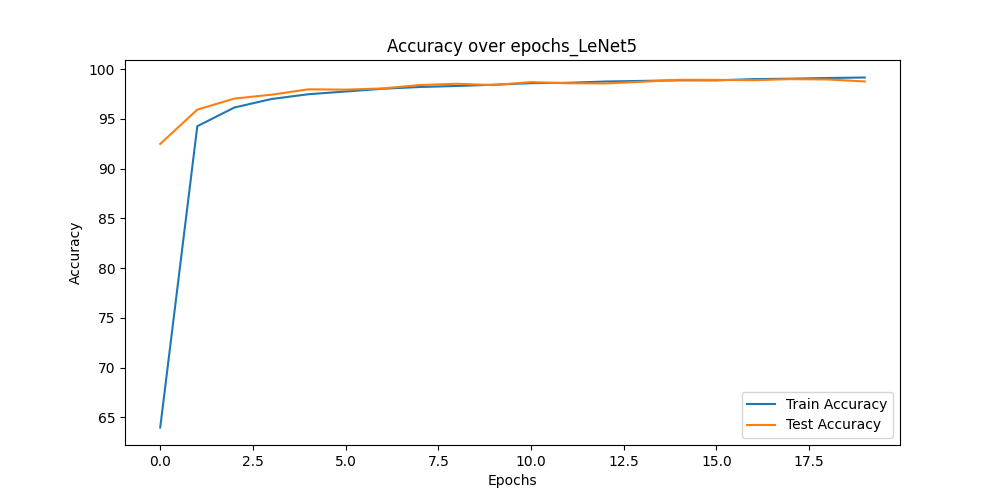
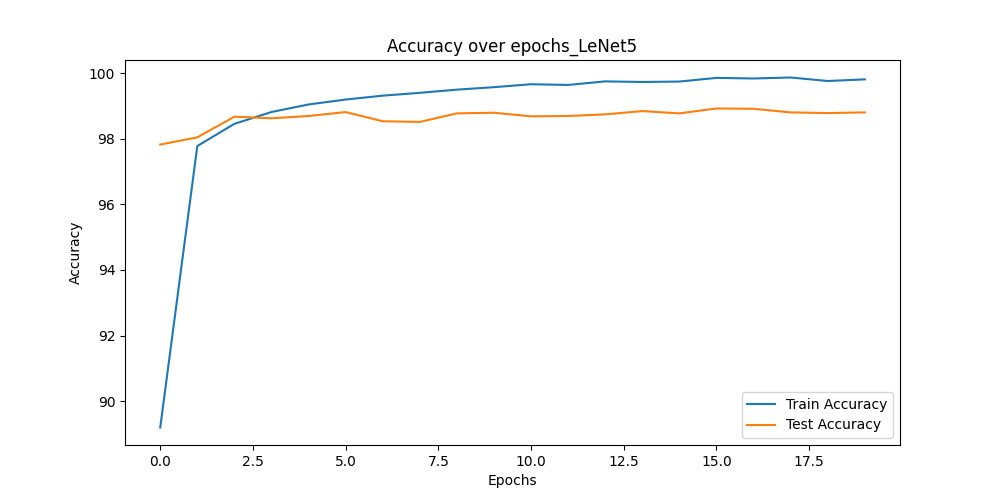
tenth commit

diff --git a/model.py b/model.py
@@ -6,7 +6,7 @@ from torchsummary import summary
 class LeNet5(nn.Module):
     """ LeNet-5 (LeCun et al., 1998), the CNN architectures
 
-        - a total of seven layers : Convolutional layers(2), Max pooling(2), Fully connected layers(3)
+        - a total of seven layers : Convolutional layers(3), Max pooling(3), Fully connected layers(2)
         - total params: 44,426
          
     """
@@ -15,51 +15,51 @@ class LeNet5(nn.Module):
         self.conv1 = nn.Conv2d(1, 6, kernel_size=5, stride=1, padding=0)
         self.pool = nn.MaxPool2d(kernel_size=2, stride=2)
         self.conv2 = nn.Conv2d(6, 16, kernel_size=5, stride=1, padding=0)
-        self.fc1 = nn.Linear(16*4*4, 120)
-        self.fc2 = nn.Linear(120, 84)
-        self.fc3 = nn.Linear(84, 10) # output =  num_class
+        self.conv3 = nn.Conv2d(16, 120, kernel_size=4, stride=1, padding=0)      
+        self.fc1 = nn.Linear(120, 84)
+        self.fc2 = nn.Linear(84, 10) # output =  num_class
 
     def forward(self, img):
         img = F.relu(self.conv1(img))
         img = self.pool(img)
         img = F.relu(self.conv2(img))
         img = self.pool(img)
-        img = img.view(-1, 16*4*4)
+        img = F.relu(self.conv3(img))
+        img = img.view(-1, 120)
         img = F.relu(self.fc1(img))
-        img = F.relu(self.fc2(img))
-        output = self.fc3(img)
+        output = self.fc2(img)
 
         return output
     
 class LeNet5_regularization(nn.Module):
     """ LeNet-5 (LeCun et al., 1998), the CNN architectures
 
-        - a total of seven layers : Convolutional layers(2), Max pooling(2), Fully connected layers(3)
+        - a total of seven layers : Convolutional layers(3), Max pooling(3), Fully connected layers(2)
         - total params: 44,426
          
     """
     def __init__(self):
         super(LeNet5_regularization, self).__init__()
         self.conv1 = nn.Conv2d(1, 6, kernel_size=5, stride=1, padding=0)
-        self.bn1 = nn.BatchNorm2d(6)   # Batch Normalization
+        self.bn1 = nn.BatchNorm2d(6)      # Batch Normalization
         self.pool = nn.MaxPool2d(kernel_size=2, stride=2)
         self.conv2 = nn.Conv2d(6, 16, kernel_size=5, stride=1, padding=0)
-        self.bn2 = nn.BatchNorm2d(16)  # Batch Normalization
-        self.fc1 = nn.Linear(16*4*4, 120)
-        self.dropout1 = nn.Dropout(0.5)  # Dropout
-        self.fc2 = nn.Linear(120, 84)
-        self.dropout2 = nn.Dropout(0.5)  # Dropout
-        self.fc3 = nn.Linear(84, 10) # output =  num_class
-
+        self.bn2 = nn.BatchNorm2d(16)     # Batch Normalization
+        self.conv3 = nn.Conv2d(16, 120, kernel_size=4, stride=1, padding=0)   
+        self.bn3 = nn.BatchNorm2d(120)   
+        self.fc1 = nn.Linear(120, 84)
+        self.dropout1 = nn.Dropout(p=0.5)  # Dropout
+        self.fc2 = nn.Linear(84, 10) # output = num_class
+        
     def forward(self, img):
         img = F.relu(self.conv1(img))
         img = self.pool(img)
         img = F.relu(self.conv2(img))
         img = self.pool(img)
-        img = img.view(-1, 16*4*4)
+        img = F.relu(self.conv3(img))
+        img = img.view(-1, 120)
         img = F.relu(self.fc1(img))
-        img = F.relu(self.fc2(img))
-        output = self.fc3(img)
+        output = self.fc2(img)
 
         return output
 

diff --git a/main.py b/main.py
@@ -106,7 +106,7 @@ def main(model_type='LeNet5', epochs=20, lr=0.001, batch_size=64):
         raise ValueError("Unsupported model type")
 
     # 4)
-    optimizer = optim.SGD(model.parameters(), lr=lr, momentum=0.9)
+    optimizer = optim.SGD(model.parameters(), lr=0.01, momentum=0.9)
 
     # 5)
     criterion = nn.CrossEntropyLoss()
@@ -172,10 +172,9 @@ if __name__ == '__main__':
     # args
     model_type = 'LeNet5'  # 'LeNet5' or 'CustomMLP' or 'LeNet5_regularization'
     epochs = 20
-    lr = 0.001
     batch_size = 64
 
-    train_losses, train_accuracies, test_losses, test_accuracies = main(model_type, epochs, lr, batch_size)
+    train_losses, train_accuracies, test_losses, test_accuracies = main(model_type, epochs, batch_size)
     
     if model_type == 'LeNet5':
         model = LeNet5()

diff --git a/README.md b/README.md
@@ -56,7 +56,6 @@
     #### args
     model_type = 'LeNet5'  
     epochs = 20  
-    lr = 0.001  
     batch_size = 64  
 
 ## 4. Model Structure
@@ -74,7 +73,7 @@
 | MaxPool2d-2    | [-1, 6, 12, 12]   | 0       |
 | Conv2d-3       | [-1, 16, 8, 8]    | 2,416   |
 | MaxPool2d-4    | [-1, 16, 4, 4]    | 0       |
-| Linear-5       | [-1, 120]         | 30,840  |
+| Conv2d-5       | [-1, 120, 1, 1]   | 30,840  |
 | Linear-6       | [-1, 84]          | 10,164  |
 | Linear-7       | [-1, 10]          | 850     |
 | **Total**      |                   | **44,426** |
@@ -96,10 +95,10 @@
      total parms : (5 * 5 * 1 * 6) + 6 = 156
 2. Conv2d-2(conv2)
      input channel : 6, output channel : 16, kernal_size : 5 * 5, bias : 16  
-     total parms : (5 * 5 * 6 * 16) + 16 = 2,146
-3. Linear-1(fc1)
-     input channel : 256, output channel : 120, bias : 120  
-     total parms : (256 * 120) + 120 = 30,840
+     total parms : (5 * 5 * 6 * 16) + 16 = 2,416
+3. Conv2d-2(conv3)
+     input channel : 16, output channel : 120, kernal_size : 4 * 4, bias : 120  
+     total parms : (4 * 4 * 16 * 120) + 120 = 30,840
 4. Linear-2(fc2)
      input channel : 120, output channel : 84, bias : 84  
      total parms : (120 * 84) + 84 = 10,164
@@ -107,7 +106,7 @@
      input channel : 84, output channel : 10, bias : 10  
      total parms : (84 * 10) + 10 = 850
 
-     Total parameters of LeNet-5 = 156 + 2,146 + 30,840 + 10,164 + 850 = 44,426
+     Total parameters of LeNet-5 = 156 + 2,416 + 30,840 + 10,164 + 850 = 44,426
 
 - **CustomMLP**
 1. Linear-1(fc1)
@@ -126,23 +125,23 @@
 
 - Accuracy for each model
   - CustomMLP
-  ![acc_plot_CustomMLP](https://github.com/bae-sohee/MNIST_Classification/assets/123538321/32dcd452-a016-483e-a58f-7dfa5b0b4568)
+  ![acc_plot_CustomMLP](https://github.com/bae-sohee/MNIST_Classification/assets/123538321/70600fa9-4b39-44fb-a30f-6b00f621f1cf)
   - LeNet-5
-  ![acc_plot_LeNet-5](https://github.com/bae-sohee/MNIST_Classification/assets/123538321/9bc7ffea-b539-4f58-a583-3913fce87357)
+  ![acc_plot_LeNet-5](https://github.com/bae-sohee/MNIST_Classification/assets/123538321/329c37ca-5a73-4612-be2d-38db9d2ec3cd)
   - LeNet-5 (regularization)
-  ![acc_plot_LeNet-5_regularization](https://github.com/bae-sohee/MNIST_Classification/assets/123538321/1a91a124-a4ce-4c88-ad47-a226fe5f4d44)
+  ![acc_plot_LeNet-5_regularization](https://github.com/bae-sohee/MNIST_Classification/assets/123538321/7bd85219-d64d-40de-a451-774aa7407107)
 
 - Loss for each model
   - CustomMLP
-  ![loss_plot_CustomMLP](https://github.com/bae-sohee/MNIST_Classification/assets/123538321/35787296-2a64-442c-8946-88675c2d59fc)
+  ![loss_plot_CustomMLP](https://github.com/bae-sohee/MNIST_Classification/assets/123538321/e0be35c8-21dd-4be8-929a-e36f9f793ed8)
   - LeNet-5
-  ![loss_plot_LeNet5](https://github.com/bae-sohee/MNIST_Classification/assets/123538321/50088e04-19c7-40c5-8d08-b1c9a4263d53)
+  ![loss_plot_LeNet5](https://github.com/bae-sohee/MNIST_Classification/assets/123538321/a2b00775-09ff-40bd-85d4-eaff0f860855)
   - LeNet-5 (regularization)
-  ![loss_plot_LeNet5_regularization](https://github.com/bae-sohee/MNIST_Classification/assets/123538321/47d870a3-6790-4bb2-99c3-8128e4657897)
+  ![loss_plot_LeNet5_regularization](https://github.com/bae-sohee/MNIST_Classification/assets/123538321/2708a020-8b51-4224-8f77-bd919aec7da7)
 
-- As a result of comparing the performance of the Custom MLP and LeNet-5 models through 20 epoch, the result were 97.14 for Custom MLP and 98.77 for LeNet-5. Although the similar parameters of the two models (Custom MLP: 45,846, LeNet-5: 44,426), the CNN-based model performs better than the MLP model.
-- From checking the learning curves of both models, the loss decreases exponentially as the learning progresses, and it seems to converge from 0.070.09 for Custom NLP and 0.020.03 for LeNet-5.
-- To improve the LeNet-5 model performance, two regularization techniques were applied: Batch normalization and Dropout. The performance was 98.77 for LeNet-5, and 98.86 for LeNet-5 with regularization, showing very slight performance improvement. Due to the low complexity of the data or model used in the experiment, it is assumed that the performance difference between the two models did not appear significantly.  
+- As a result of comparing the performance of the Custom MLP and LeNet-5 models through 20 epoch, the result were 97.66 for Custom MLP and 98.80 for LeNet-5. Although the similar parameters of the two models (Custom MLP: 45,846, LeNet-5: 44,426), the CNN-based model performs better than the MLP model.
+- From checking the learning curves of both models, the loss decreases exponentially as the learning progresses, and it seems to converge from 0.10-0.15 for Custom NLP and 0.04-0.06 for LeNet-5.
+- To improve the LeNet-5 model performance, two regularization techniques were applied: Batch normalization and Dropout. The performance was 98.80 for LeNet-5, and 99.13 for LeNet-5 with regularization, showing very slight performance improvement. Due to the low complexity of the data or model used in the experiment, it is assumed that the performance difference between the two models did not appear significantly.  
 - For the known accuracy of the existing LeNet-5, the reference result was referred to as reference result. The reference result (about 97.5, 97.64)
 
 ## 6. Refecence
